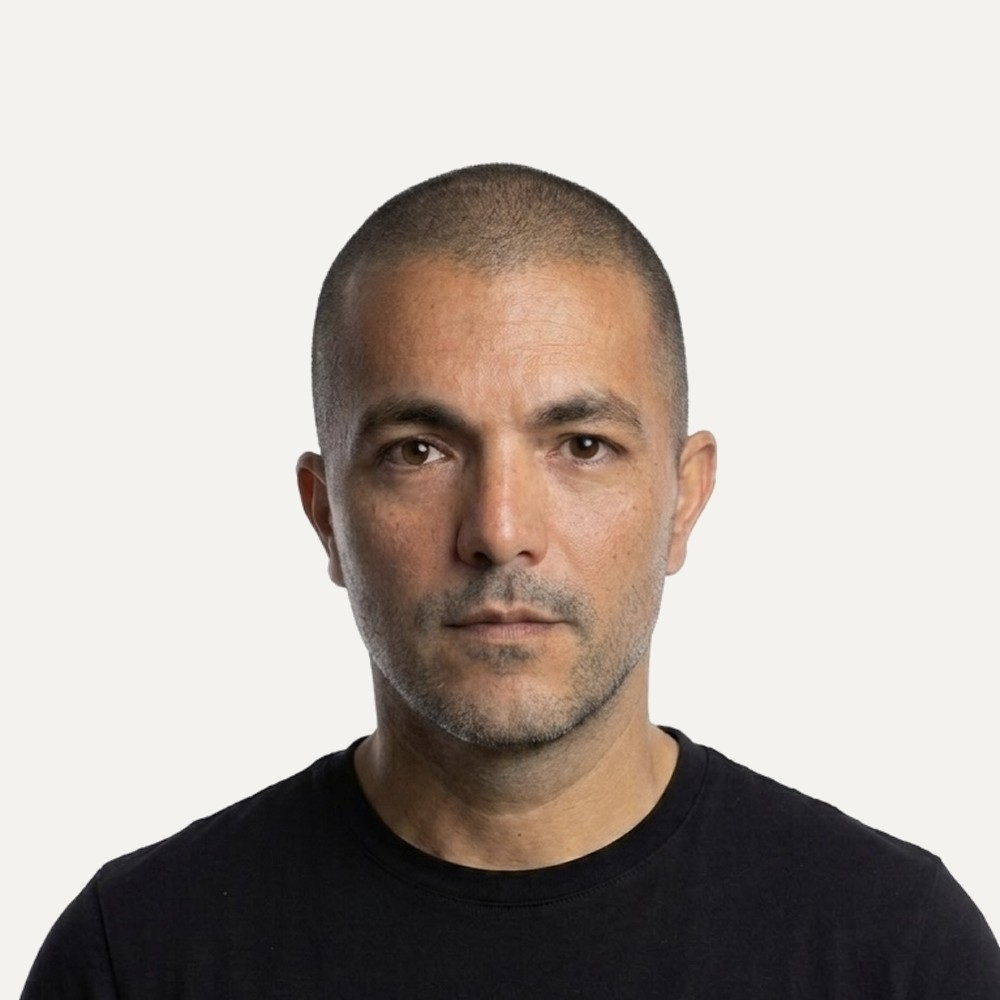
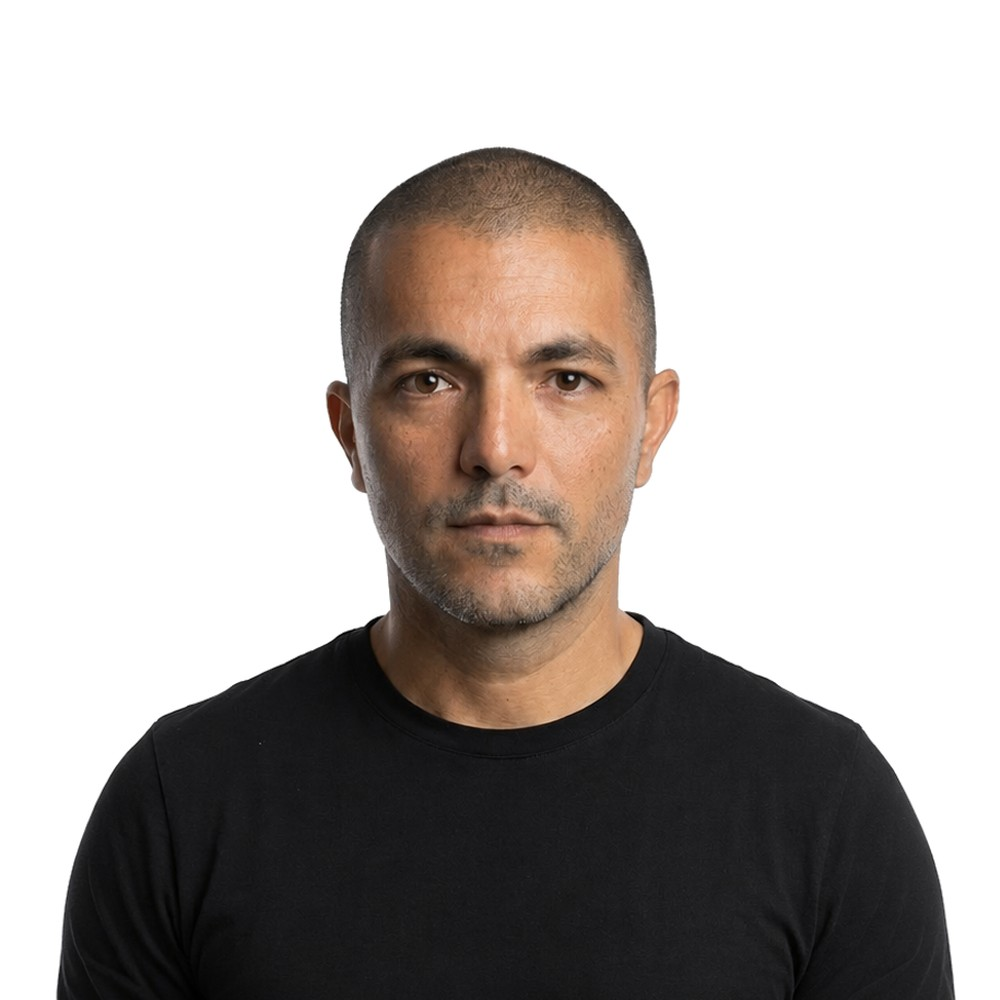
assets(hero): replace headshot with non-circular full photo and highlight IESE MBA

Changed region(s): [[0.0, 0.124, 1.0, 1.0], [0.775, 0.93, 0.806, 1.0], [0.186, 0.992, 0.217, 1.0]]

diff --git a/index.html b/index.html
@@ -148,7 +148,7 @@
           <img
             src="mauricio-sialer.jpg"
             alt="Mauricio Sialer, Head of Digital Commerce"
-            class="hero-photo mx-auto md:mx-0 rounded-full object-cover aspect-square"
+            class="hero-photo mx-auto md:mx-0"
           />
         </div>
         <div>
@@ -189,7 +189,7 @@
             P&amp;L owner with 10+ years scaling 0-to-1 digital platforms across FMCG, marketplace technology, and financial services in LATAM and Europe. Led cross-functional teams of 16, driving adoption of Peru's BEES B2B replenishment app to #1 worldwide in AB InBev network and launching BNPL, subscription, and loyalty products that scaled customer profitability, delivering six-figure net benefits.
           </p>
           <p class="mt-8 text-lg sm:text-xl text-ink/85" style="line-height:1.8">
-            I don't lead technology I've only been briefed on. I am hands-on with generative AI, LLMs, and agentic frameworks — running them on my own to understand their operational mechanics, failure modes, and real implications before they become board motions. IESE MBA. Trilingual: English (bilingual), Spanish (native), Portuguese (B2).
+            I don't lead technology I've only been briefed on. I am hands-on with generative AI, LLMs, and agentic frameworks — running them on my own to understand their operational mechanics, failure modes, and real implications before they become board motions. <span class="text-accent font-semibold">IESE MBA</span>. Trilingual: English (bilingual), Spanish (native), Portuguese (B2).
           </p>
         </div>
         <p class="mt-12 text-sm text-[#9ca3af]" style="letter-spacing:0.5px; line-height:2">